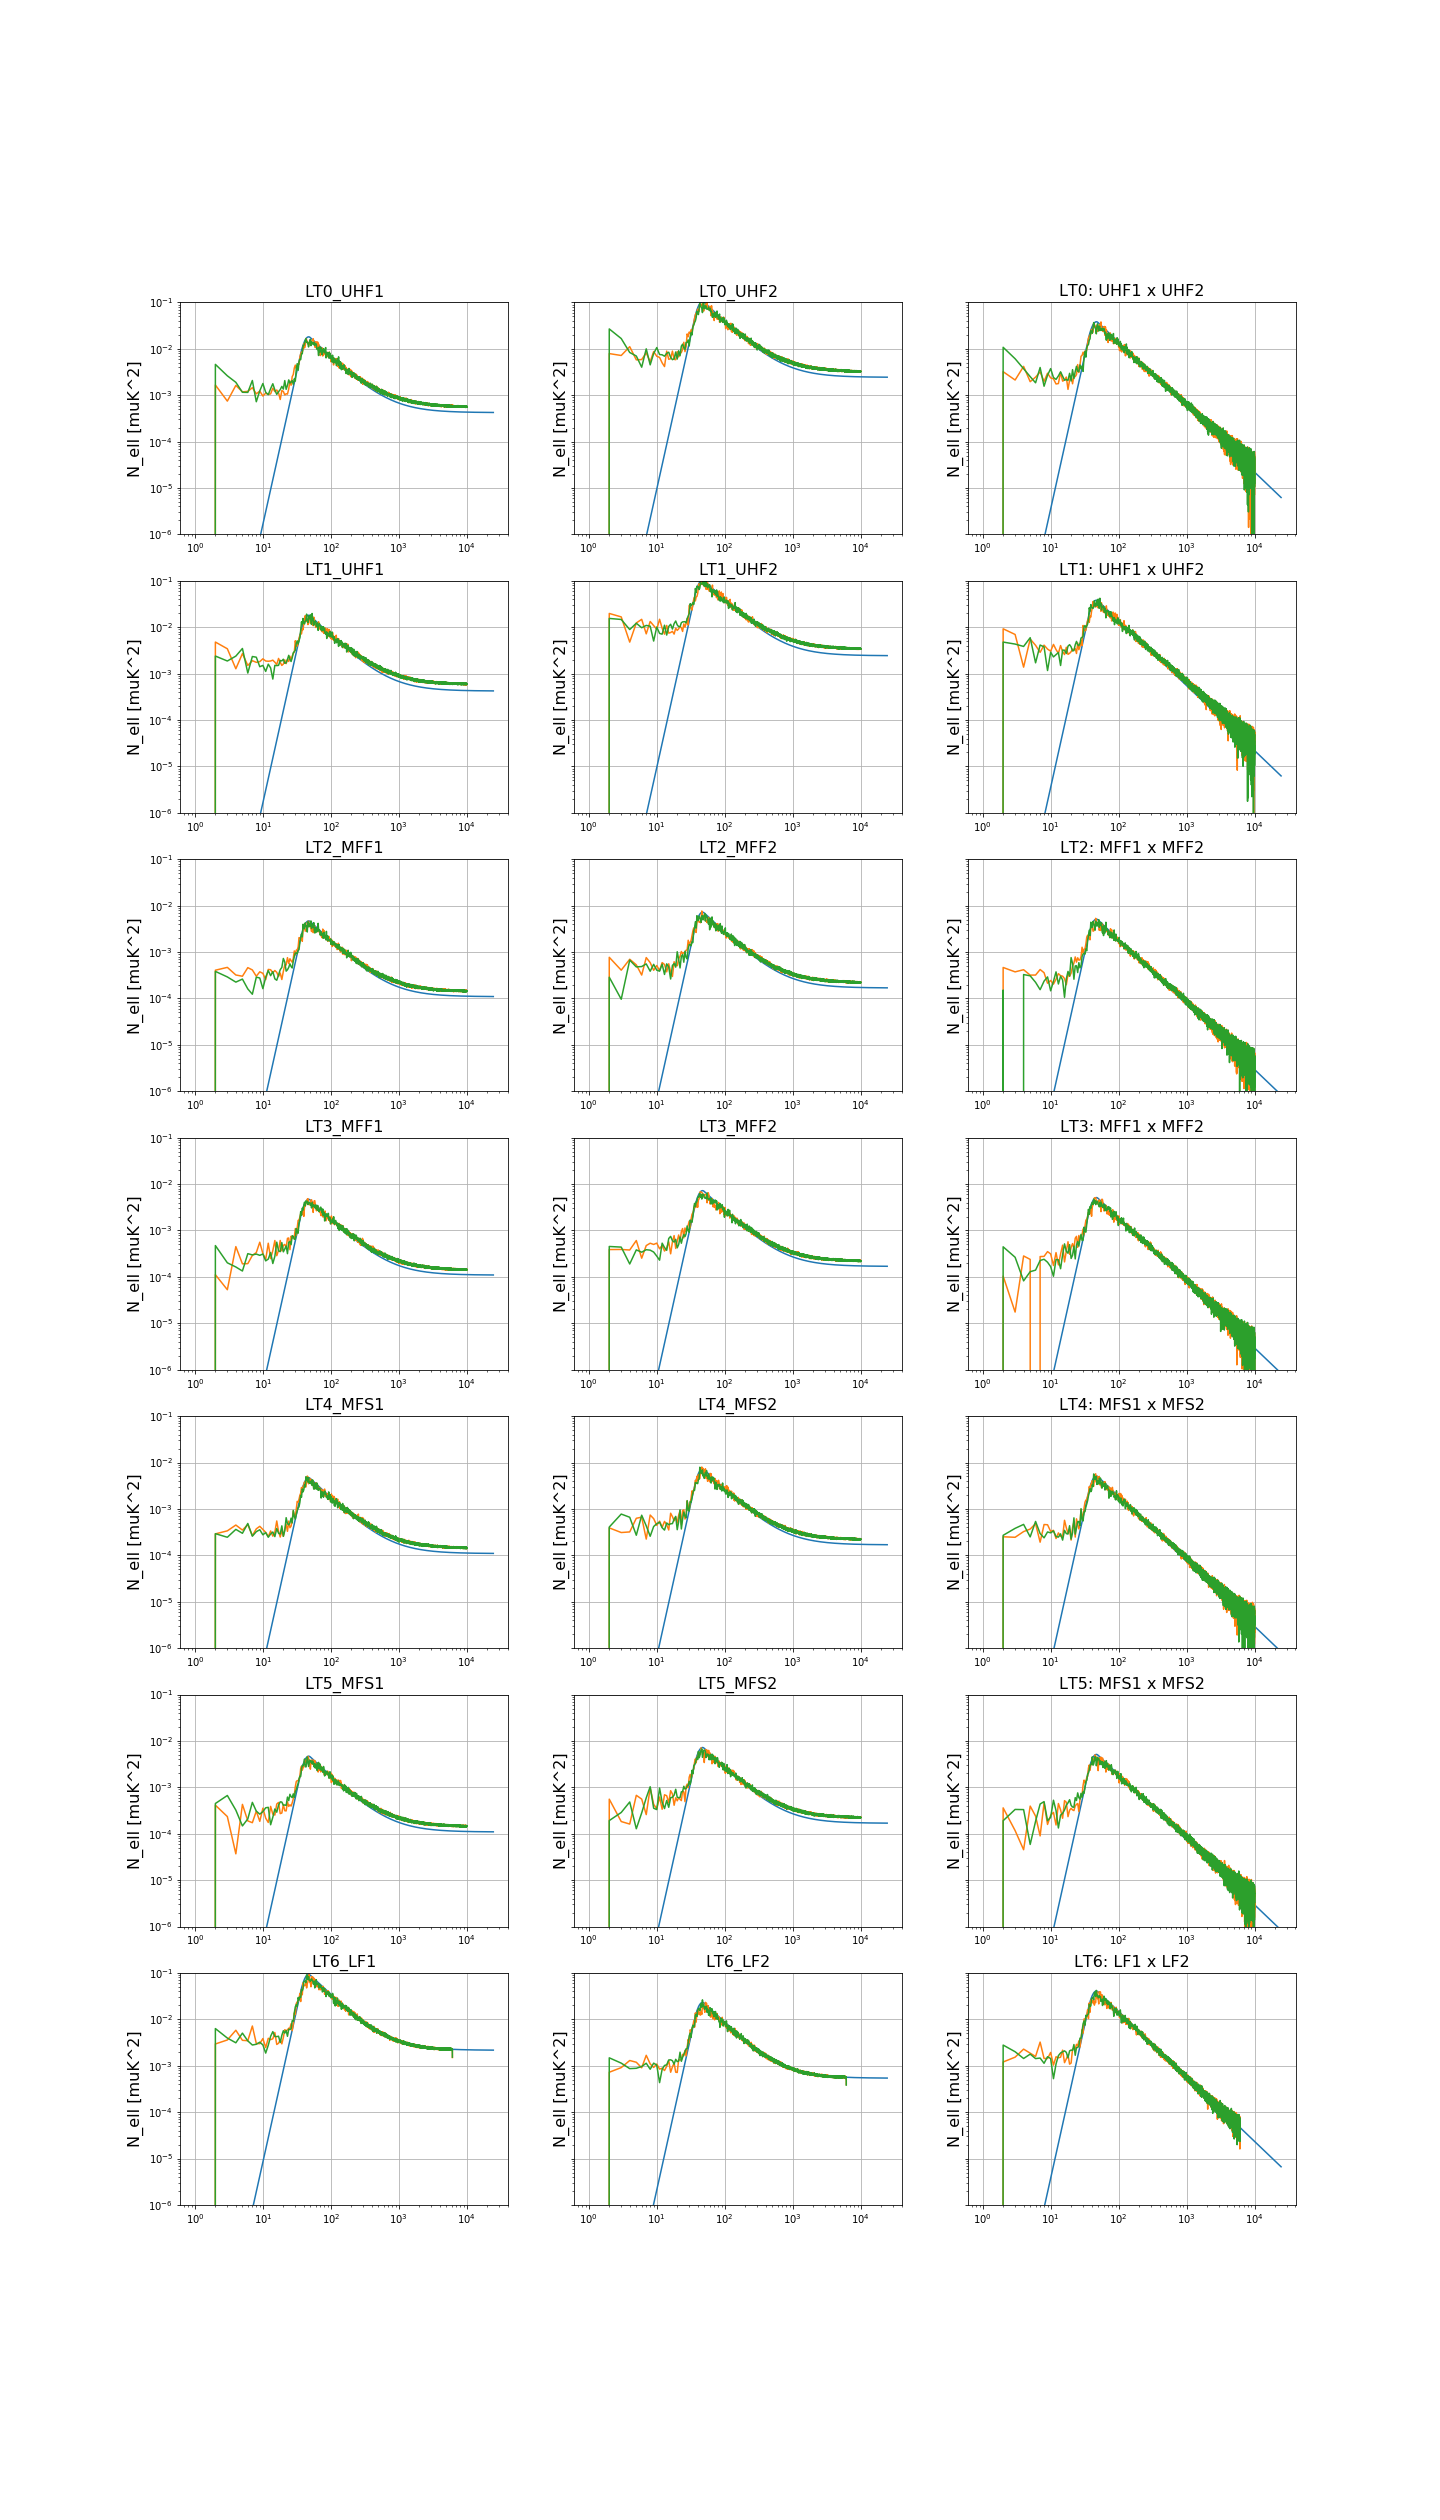
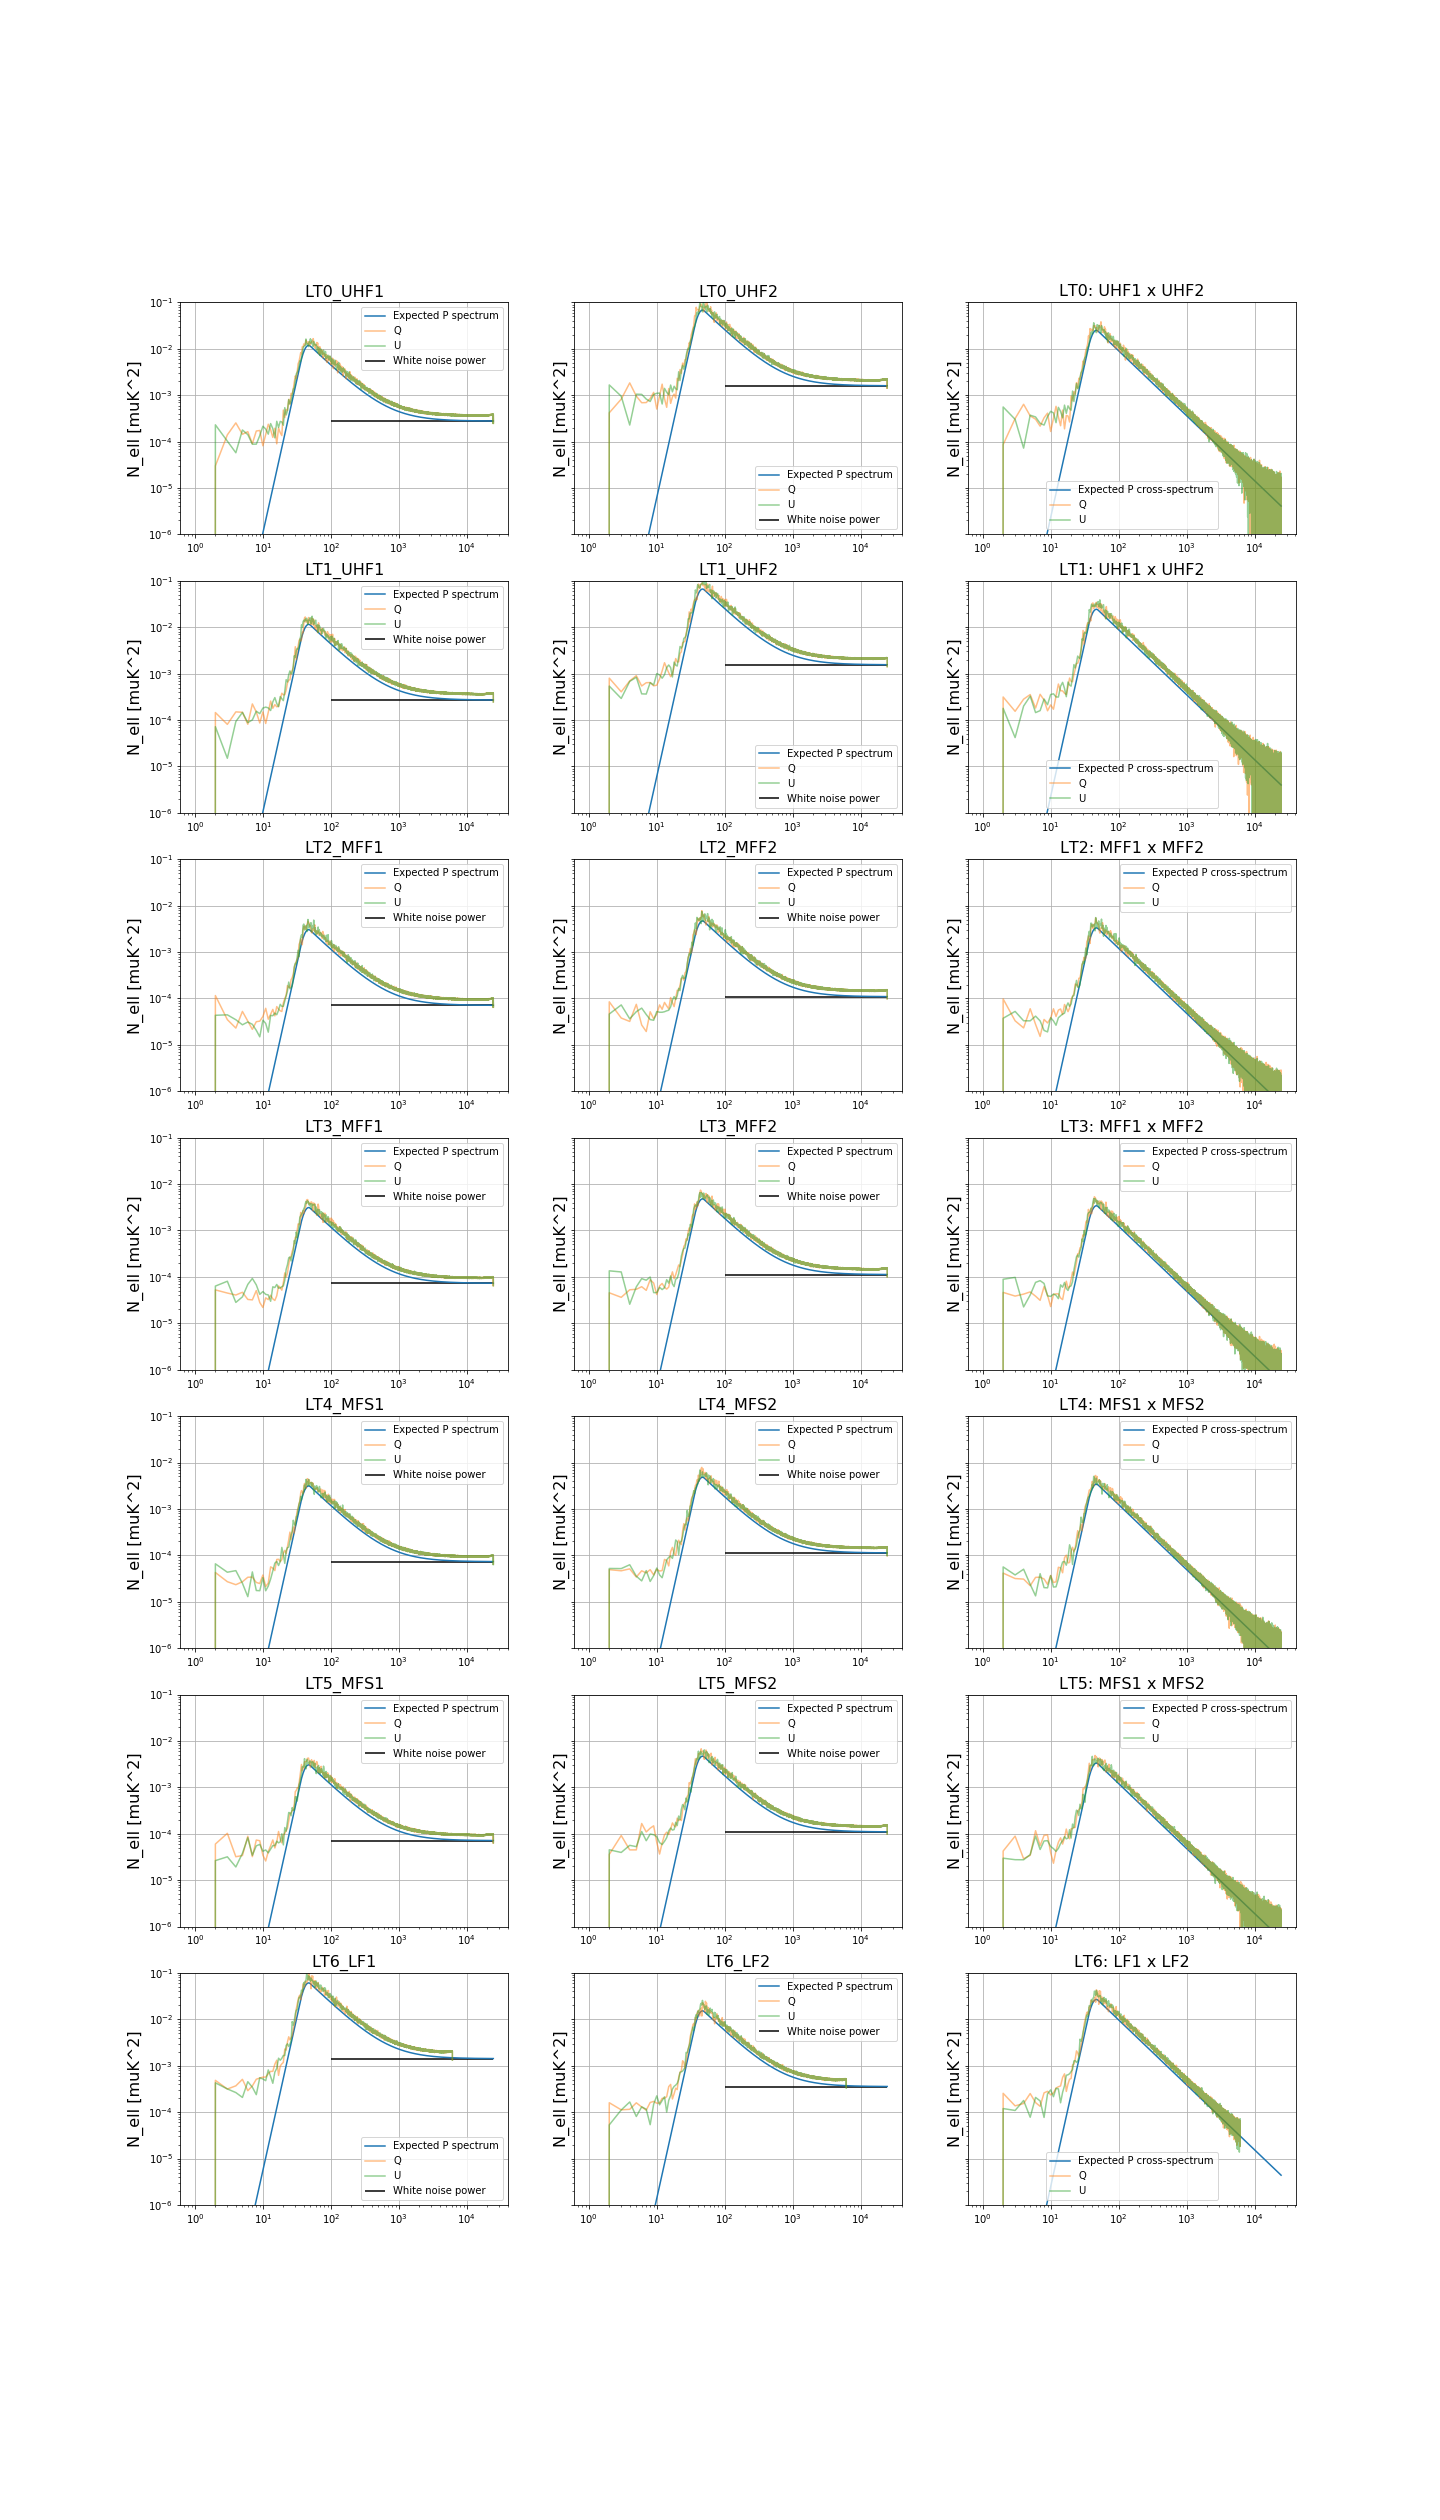
fixed LAT plotting notebook, computation script and plots

diff --git a/202006_noise/compute_cl_noise_splits.py b/202006_noise/compute_cl_noise_splits.py
@@ -5,21 +5,44 @@ import pickle
 import numpy as np
 import sys
 
-ellmax = int(1e4)
 tube = sys.argv[1]
 folder = "output/noise/0000/"
+
+sim = mapsims.from_config(
+    ["common.toml", "noise.toml"], override={"channels": "tube:" + tube}
+)
+noise = sim.other_components["noise"]
+hitmaps, _ = noise.get_hitmaps(tube)
+
 for subset in range(1, 5):
     m = {}
     cl = []
-    for i, ch in enumerate(mapsims.parse_channels("tube:"+tube)[0]):
+    for i, ch in enumerate(mapsims.parse_channels("tube:" + tube)[0]):
         filename = glob(folder + f"*{ch.tag}*{subset}_of_4*")[0]
         print("reading " + filename)
-        m[i] = hp.read_map(filename, (0,1,2))
+        m[i] = hp.read_map(filename, (0, 1, 2))
         npix = len(m[i][0])
         nside = hp.npix2nside(npix)
-        sky_fraction=(m[i][0]>-1e30).sum()/npix
-        cl.append(np.array(hp.anafast(m[i], lmax=min(3*nside-1,ellmax), use_pixel_weights=True)) / sky_fraction)
-    cl.append(np.array(hp.anafast(m[0],m[1], lmax=min(3*nside-1,ellmax), use_pixel_weights=True)) / sky_fraction)
+        sky_fraction = hp.mask_good(m[i]).sum() / npix
+        m[i] *= hitmaps[i]
+        cl.append(
+            np.array(
+                hp.anafast(
+                    m[i], lmax=3 * nside - 1, use_pixel_weights=True
+                )
+            )
+            / np.mean(hitmaps[i] ** 2)
+            / sky_fraction
+        )
+    cl.append(
+        np.array(
+            hp.anafast(
+                m[0], m[1], lmax=3 * nside - 1, use_pixel_weights=True
+            )
+        )
+        / np.mean(hitmaps[i] ** 2)
+        / sky_fraction
+    )
 
     cl = np.array(cl)
     with open(f"output/noise/N_ell_tube_{tube}_{subset}_of_4.pkl", "wb") as f:

diff --git a/202006_noise/compute_cl_noise_full.py b/202006_noise/compute_cl_noise_full.py
@@ -5,20 +5,40 @@ import pickle
 import numpy as np
 import sys
 
-ellmax = int(1e4)
 tube = sys.argv[1]
 m = {}
 cl = []
 folder = "output/noise/0000/"
-for i, ch in enumerate(mapsims.parse_channels("tube:"+tube)[0]):
+
+sim = mapsims.from_config(
+    ["common.toml", "noise.toml"], override={"channels": "tube:" + tube}
+)
+noise = sim.other_components["noise"]
+hitmaps, _ = noise.get_hitmaps(tube)
+
+for i, ch in enumerate(mapsims.parse_channels("tube:" + tube)[0]):
     filename = glob(folder + f"*{ch.tag}*1_of_1*")[0]
     print("reading " + filename)
-    m[i] = hp.read_map(filename, (0,1,2))
+    m[i] = hp.read_map(filename, (0, 1, 2))
     npix = len(m[i][0])
     nside = hp.npix2nside(npix)
-    sky_fraction=(m[i][0]>-1e30).sum()/npix
-    cl.append(np.array(hp.anafast(m[i], lmax=min(3*nside-1,ellmax), use_pixel_weights=True)) / sky_fraction)
-cl.append(np.array(hp.anafast(m[0],m[1], lmax=min(3*nside-1,ellmax), use_pixel_weights=True)) / sky_fraction)
+    sky_fraction = hp.mask_good(m[i][0]).sum() / npix
+    print("sky_fraction", sky_fraction)
+    m[i] *= hitmaps[i]
+    cl.append(
+        np.array(
+            hp.anafast(m[i], lmax=3*nside-1, use_pixel_weights=True)
+        )
+        / np.mean(hitmaps[i] ** 2)
+        / sky_fraction
+    )
+cl.append(
+    np.array(
+        hp.anafast(m[0], m[1], lmax=3*nside-1, use_pixel_weights=True)
+    )
+    / np.mean(hitmaps[i] ** 2)
+    / sky_fraction
+)
 
 cl = np.array(cl)
 with open(f"output/noise/N_ell_tube_{tube}.pkl", "wb") as f:
